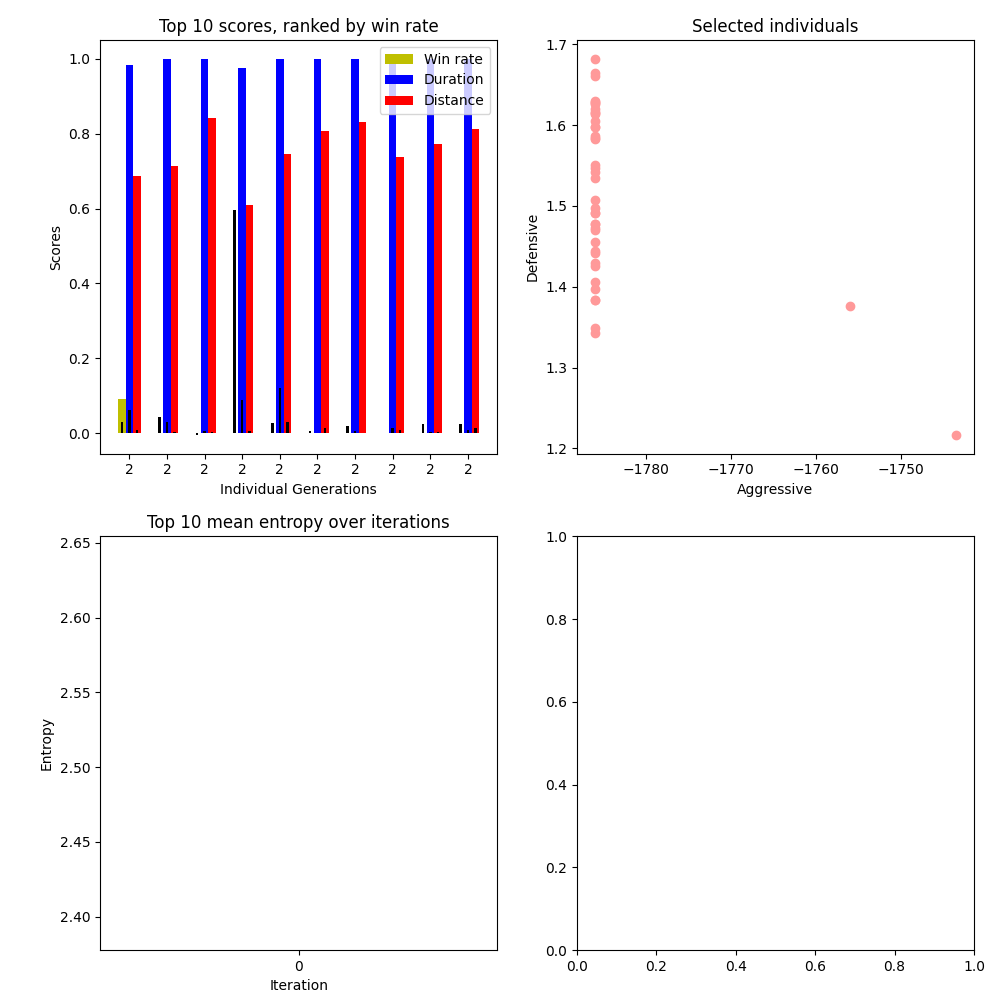
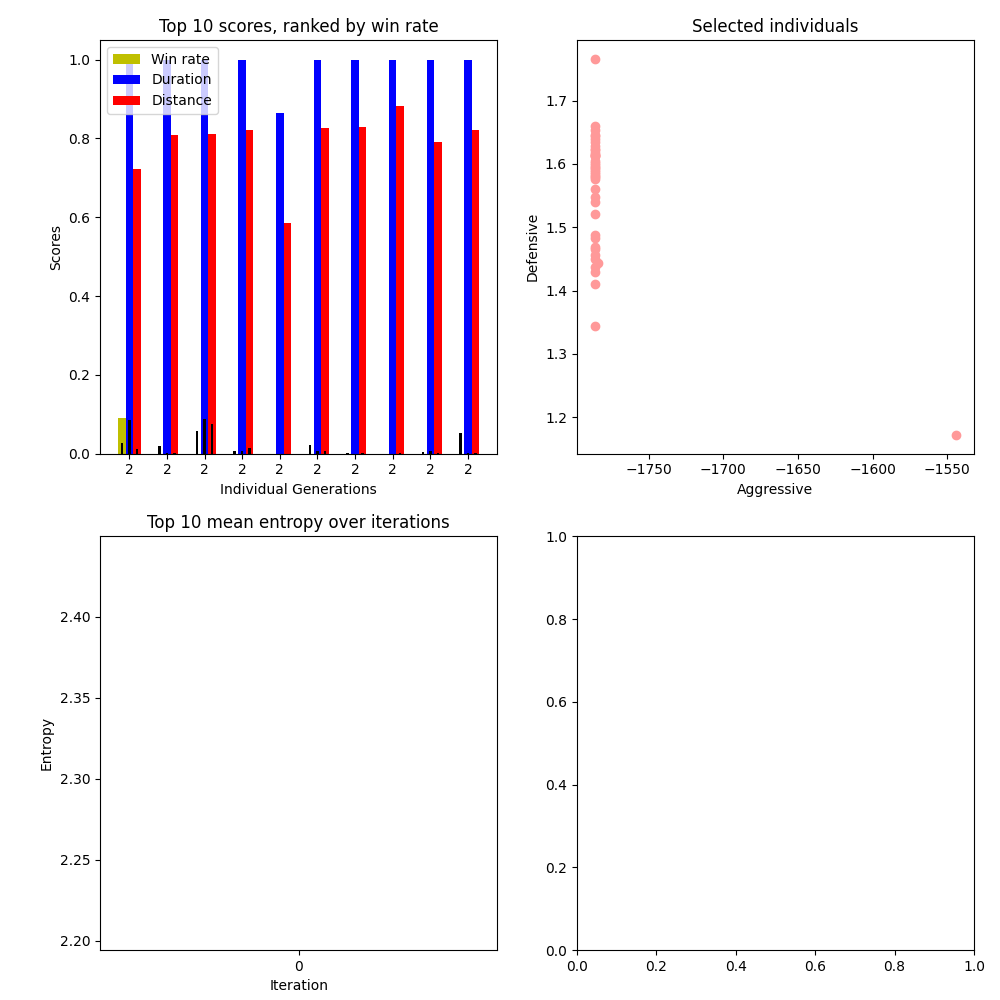
28-03

diff --git a/evolution_server.py b/evolution_server.py
@@ -26,7 +26,7 @@ import socket
 class EvolutionServer:
 
     def __init__(self, ID, env_id='Pong-ram-v0', collector_ip=None, traj_length=128, batch_size=1, max_train=9,
-                 early_stop=7, round_length=200, min_eval=5000, min_games=10, subprocess=True, mutation_rate=0.5):
+                 early_stop=7, round_length=200, min_eval=5000, min_games=1, subprocess=True, mutation_rate=0.5):
         if collector_ip is None:
             self.ip = socket.gethostbyname(socket.gethostname())
         else:
@@ -175,8 +175,8 @@ class EvolutionServer:
             'game_reward': 0.0,
             'avg_length': 0.0,
             'total_punition': 0.0,
-            # 'no_op_rate': 0.0,
-            # 'move_rate': 0.0,
+            'no_op_rate': 0.0,
+            'move_rate': 0.0,
             'mean_distance': 0.0,
             'win_rate': 0.0,
             'entropy': 0.0,
@@ -194,26 +194,26 @@ class EvolutionServer:
                 action, dist_ = player.pi.policy.get_action(observation, return_dist=True, eval=True)
                 dist += dist_
                 actions[action] += 1
-                #  observation_, reward, done, info = self.env.step(action)  # players pad only moves every two frames
-                #  last_pos = self.util.preprocess(observation_)[4]
+                observation_, reward, done, info = self.env.step(action)  # players pad only moves every two frames
+                last_pos = self.util.preprocess(observation_)[4]
                 observation_, reward2, done, info = self.env.step(action)
                 observation_ = self.util.preprocess(observation_)
                 observation = np.concatenate([observation[len(observation)//2:], observation_])
-                #  reward += reward2
+                reward += reward2
                 r['game_reward'] += reward2
                 if reward2 < 0:
                     r['total_punition'] += reward2
 
                 r['mean_distance'] += self.util.distance(observation_)
                 r['win_rate'] += int(self.util.win(done, observation_) > 0)
-                '''
+
                 r['no_op_rate'] += int(self.util.is_no_op(action))
                 distance_moved = self.util.pad_move(observation_, last_pos)
 
                 moved = int(distance_moved > 0)
 
                 r['move_rate'] += moved
-                '''
+
 
                 frame_count += 1
 
@@ -221,12 +221,9 @@ class EvolutionServer:
 
         print(actions)
         r['avg_length'] = frame_count / float(n_games)
-        r['win_rate'] = r['win_rate'] / float(n_games) #(np.abs(r['game_reward'] - r['total_punition'])) / float(np.abs(r['game_reward'] - 2 * r['total_punition']))
-        if r['game_reward'] > 0:
-            # Helps ranking at the beginning
-            r['win_rate'] += 0.0001 * (np.abs(r['game_reward'] - r['total_punition'])) / float(np.abs(r['game_reward'] - 2 * r['total_punition']))
-        #  r['no_op_rate'] = r['no_op_rate'] / float(frame_count)
-        #  r['move_rate'] = r['move_rate'] / float(frame_count)
+        r['win_rate'] = (np.abs(r['game_reward'] - r['total_punition'])) / float(np.abs(r['game_reward'] - 2 * r['total_punition']))
+        r['no_op_rate'] = r['no_op_rate'] / float(frame_count)
+        r['move_rate'] = r['move_rate'] / float(frame_count)
         r['mean_distance'] = r['mean_distance'] / float(frame_count)
         dist /= float(frame_count)
         r['entropy'] = -np.sum(np.log(dist+1e-8) * dist)
@@ -243,28 +240,28 @@ class EvolutionServer:
         for frame_count in range(max_frame):
             action = player.pi.policy.get_action(observation)
             actions[action] += 1
-            #  observation_, reward, done, info = self.env.step(action)  # players pad only moves every two frames
-            #  last_pos = self.util.preprocess(observation_)[4]
+            observation_, reward, done, info = self.env.step(action)  # players pad only moves every two frames
+            last_pos = self.util.preprocess(observation_)[4]
             observation_, reward2, done, info = self.env.step(action)
-            #  reward += reward2
+            reward += reward2
             observation_ = self.util.preprocess(observation_)
-            #  distance_moved = self.util.pad_move(observation_, last_pos)
+            distance_moved = self.util.pad_move(observation_, last_pos)
 
-            #  moved = int(distance_moved > 0)
+            moved = int(distance_moved > 0)
             #  delta_score = self.util.score_delta(observation_)
             # win = delta_score - last_score_delta
             # last_score_delta = delta_score
-            #  act = (int(self.util.is_no_op(action)) - 1)
+            act = (int(self.util.is_no_op(action)) - 1)
             win = self.util.win(done, observation_)
             observation = np.concatenate([observation[len(observation) // 2:], observation_])
-            dmg, injury = self.util.compute_damage(observation)
+            #  dmg, injury = self.util.compute_damage(observation)
 
             self.trajectory['state'][0, frame_count] = observation
             self.trajectory['action'][0, frame_count] = action
 
             self.trajectory['rew'][0, frame_count] = 10* win * player.reward_weight[0] +\
-                                                     dmg * player.reward_weight[1] +\
-                                                     - injury * player.reward_weight[2]
+                                                     moved * player.reward_weight[1] +\
+                                                     act * player.reward_weight[2]
 
             self.trajectory['base_rew'][0, frame_count] = reward2
 

diff --git a/plotting.py b/plotting.py
@@ -190,8 +190,8 @@ class PlotterV2:
         ent = 0
         for i in range(self.top):
             data[0][i] = self.pop.individuals[i].behavior_stats['win_rate']
-            data[1][i] = self.pop.individuals[i].behavior_stats['avg_length']
-            data[2][i] = self.pop.individuals[i].behavior_stats['mean_distance']
+            data[1][i] = self.pop.individuals[i].behavior_stats['move_rate']
+            data[2][i] = self.pop.individuals[i].behavior_stats['no_act_rate']
             data[3][i] = self.pop.individuals[i].reward_weight[0] * 0.1
             data[4][i] = self.pop.individuals[i].reward_weight[1] * 0.1
             data[5][i] = self.pop.individuals[i].reward_weight[2] * 0.1
@@ -199,8 +199,8 @@ class PlotterV2:
             data[6][i] = self.pop.individuals[i].gen
         self.mean_ent_hist.append(ent/float(self.top))
         rects1 = bars.bar(x - width, data[0], width, label='Win rate', color='y')
-        rects2 = bars.bar(x,  data[1]/1786.0, width, label='Duration', color='b')
-        rects1 = bars.bar(x + width, data[2] * 0.5, width, label='Distance', color='r')
+        rects2 = bars.bar(x,  data[1], width, label='Move rate', color='b')
+        rects1 = bars.bar(x + width, data[2], width, label='No act rate', color='r')
         rects1 = bars.bar(x - width, data[3], width/3.0, color='k')
         rects2 = bars.bar(x, data[4], width/3.0, color='k')
         rects1 = bars.bar(x + width, data[5], width/3.0, color='k')
@@ -222,8 +222,8 @@ class PlotterV2:
                     color = 'r' if index in self.selected else 'k'
 
             opti.plot(*self.scores[:, index, 1], marker='o', color=color)
-        opti.set_ylabel('Defensive')
-        opti.set_xlabel('Aggressive')
+        opti.set_ylabel('Lazy')
+        opti.set_xlabel('Busy')
         opti.set_title('Selected individuals')
 
         ticks = list(range(len(self.mean_ent_hist)))

diff --git a/optimization.py b/optimization.py
@@ -32,7 +32,7 @@ def is_dominated(x_scores, y_scores, epsilon):
 
         if x_scores[i] > y_scores[i] + eps:
             return True
-        elif x_scores[i] + eps < y_scores[i]:
+        elif x_scores[i] < y_scores[i]:
             return False
 
     return False
@@ -86,8 +86,6 @@ def cd_select(scores, indexes, size):
     distances = [np.inf] * len(indexes)
     distances_2 = [np.inf] * len(indexes)
     comparing_score = deepcopy(scores[:, :, -1])
-    comparing_score[:, 0] /= 1790.0
-    comparing_score[:, 0] /= 1.7
 
     for i, index in enumerate(indexes):
         for index2 in indexes[:index:]:

diff --git a/observe.py b/observe.py
@@ -51,6 +51,7 @@ class PopulationObserver:
                 self.env.render()
                 action = self.player.pi.policy.get_action(observation, eval=True)
                 observation_, _, done, _ = self.env.step(action)
+                observation_, _, done, _ = self.env.step(action)
                 observation_ = self.util.preprocess(observation_)
                 observation = np.concatenate([observation[len(observation) // 2:], observation_])
                 sleep(self.slow_factor)

diff --git a/main.py b/main.py
@@ -20,8 +20,8 @@ import os
 os.environ["CUDA_VISIBLE_DEVICES"] = "-1"
 
 
-def RUN(env='Boxing-ramDeterministic-v4', client_mode=False, collector_ip=None, size=15, n_server=4, n_send=1,
-        epsilon=0.02, checkpoint_dir='checkpoint/', start_from=None):
+def RUN(env='Pong-ramNoFrameskip-v4', client_mode=False, collector_ip=None, size=15, n_server=4, n_send=1,
+        epsilon=0.05, checkpoint_dir='checkpoint/', start_from=None):
 
     if start_from == 'latest':
         pass

diff --git a/population.py b/population.py
@@ -42,7 +42,6 @@ class LightIndividual:
     def __init__(self, goal_dim, generation=1):
 
         self.reward_weight = log_uniform(0, 3, (goal_dim,), base=10) / 1e3
-        self.reward_weight[0] *= 10
         self.behavior_stats = {}
         self.gen = generation
         self.model_weights = None
